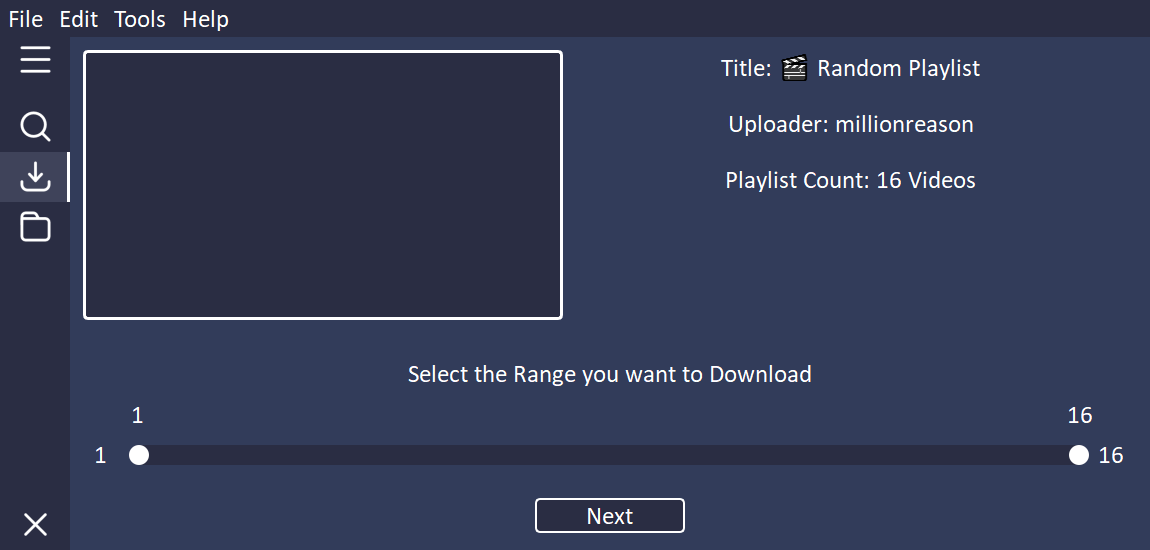
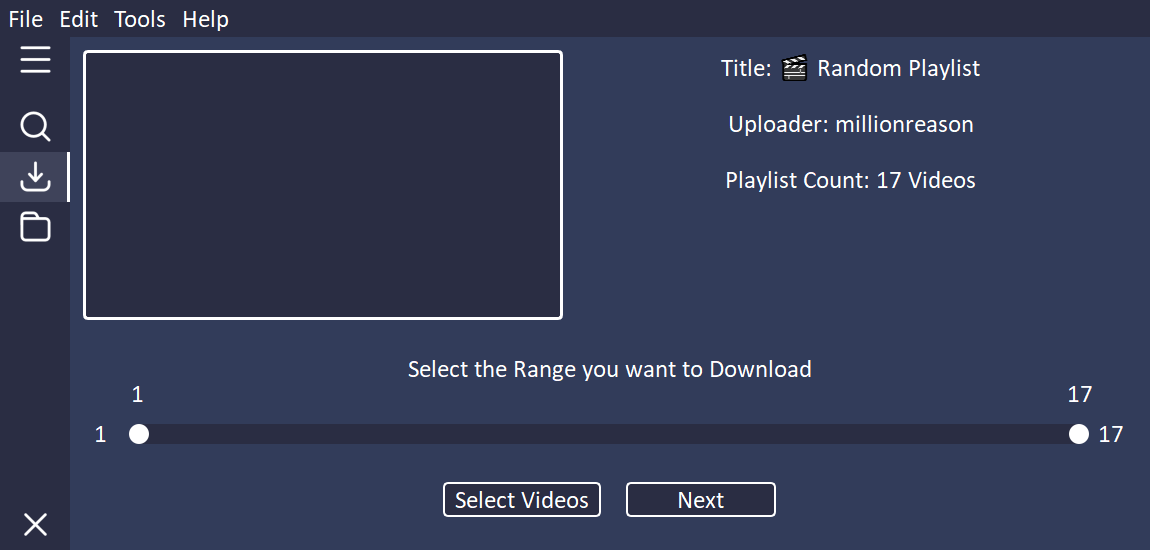
readme and screenshots

diff --git a/main.py b/main.py
@@ -179,9 +179,9 @@ class Downloader():
                 "playlist_index": index,
                 "selected": True if index + 1 in self.selected_ids else False
         })
-        dialog = VideoSelectDialog(mw, videos)
-        dialog.exec()
-        self.selected_ids = dialog.get_selected()
+        self.video_select_dialog = VideoSelectDialog(mw, videos)
+        self.video_select_dialog.exec()
+        self.selected_ids = self.video_select_dialog.get_selected()
         if self.selected_ids == [] or self.has_clear_range(self.selected_ids):
             mw.ui.playlist_range_slider.setEnabled(True)
         else:
@@ -584,6 +584,7 @@ class Downloader():
             mw.invokeFunc(mw.ui.download_2, "setCurrentIndex", Qt.QueuedConnection, Q_ARG(int, 1))
             mw.invokeFunc(mw.ui.info_range_slider_label, "setText", Qt.QueuedConnection, Q_ARG(str, "Select the Range you want to Download"))
             mw.ui.date_label.setText(f"Playlist Count: {self.data.playlist_count} Videos")
+            mw.ui.last_page_btn.setVisible(True)
             mw.invokeFunc2(mw, "setWidg2Range", Qt.QueuedConnection, Q_ARG(int, 1), Q_ARG(int, self.data.playlist_count))
             mw.invokeFunc2(mw, "setWidg2Value", Qt.QueuedConnection, Q_ARG(int, 1), Q_ARG(int, self.data.playlist_count))
 
@@ -1348,7 +1349,18 @@ class ScreenShot(QThread):
         screenshot = mw.grab()
         screenshot.save("showcase/Select_Playlist_Range.png", "png")
 
+        mw.ui.select_videos_btn.click()
+        self.msleep(1000)
+
+        screenshot = dl.video_select_dialog.grab()
+        screenshot.save("showcase/Select_Playlist_Precise.png", "png")
+
+        #dl.video_select_dialog.close()
+
+
         mw.ui.next_page_btn.click()
+
+        self.msleep(1000)
 
         screenshot = mw.grab()
         screenshot.save("showcase/Download_Playlist.png", "png")
@@ -1372,6 +1384,6 @@ if __name__ == "__main__":
     qInstallMessageHandler(qt_message_handler)
     mw = MainWindow()
     dl = Downloader()
-    #thread = ScreenShot(mw)
-    #thread.start()
+    thread = ScreenShot(mw)
+    thread.start()
     sys.exit(app.exec())

diff --git a/appdata/changelog.md b/appdata/changelog.md
@@ -1,19 +1,11 @@
 <strong>New Features:</strong>
 
 <ul>
-<li style="text-align: left;">The old settings page has been replaced by a menubar.</li>
-<li style="text-align: left;">You can now set the default resolution.</li>
-<li style="text-align: left;">There is now logging to make it easier to find errors.</li>
-<li style="text-align: left;">The video search no longer takes place automatically instead you have to click on the button to start the search.</li>
+<li style="text-align: left;">You can now select even more precisely which videos you would like to download from a playlist.</li>
 </ul>
 <br>
 <strong>Bug Fixes:</strong>
 <ul>
-    <li style="text-align: left;">
-        Fix for issues
-        <a href="https://github.com/PyFlat/YT-Downloader/issues/2" style="color: white; text-decoration: underline; font-weight: bold;">#2</a> and
-        <a href="https://github.com/PyFlat/YT-Downloader/issues/3" style="color: white; text-decoration: underline; font-weight: bold;">#3</a>
-    </li>
-    <li style="text-align: left;">Fixed a bug where the program crashed when a video was opened in the download overview.</li>
-    <li style="text-align: left;">Other small bug fixes.</li>
+    <li style="text-align: left;">Fixed a bug where the program got an error when searching for a video</li>
+    <li style="text-align: left;">Fixed a bug where the button to go to the previous page for playlists disappeared</li>
 </ul>

diff --git a/README.md b/README.md
@@ -81,6 +81,10 @@ All images were created with the _Show-Thumbnails_ setting: **Off**
 
 [![](showcase/Select_Playlist_Range.png)](#playlist)
 
+## Precise-Selection-Dialog for playlists
+
+[![](showcase/Select_Playlist_Precise.png)](#playlist)
+
 ## Download-Page for playlists
 
 [![](showcase/Download_Playlist.png)](#playlist)
